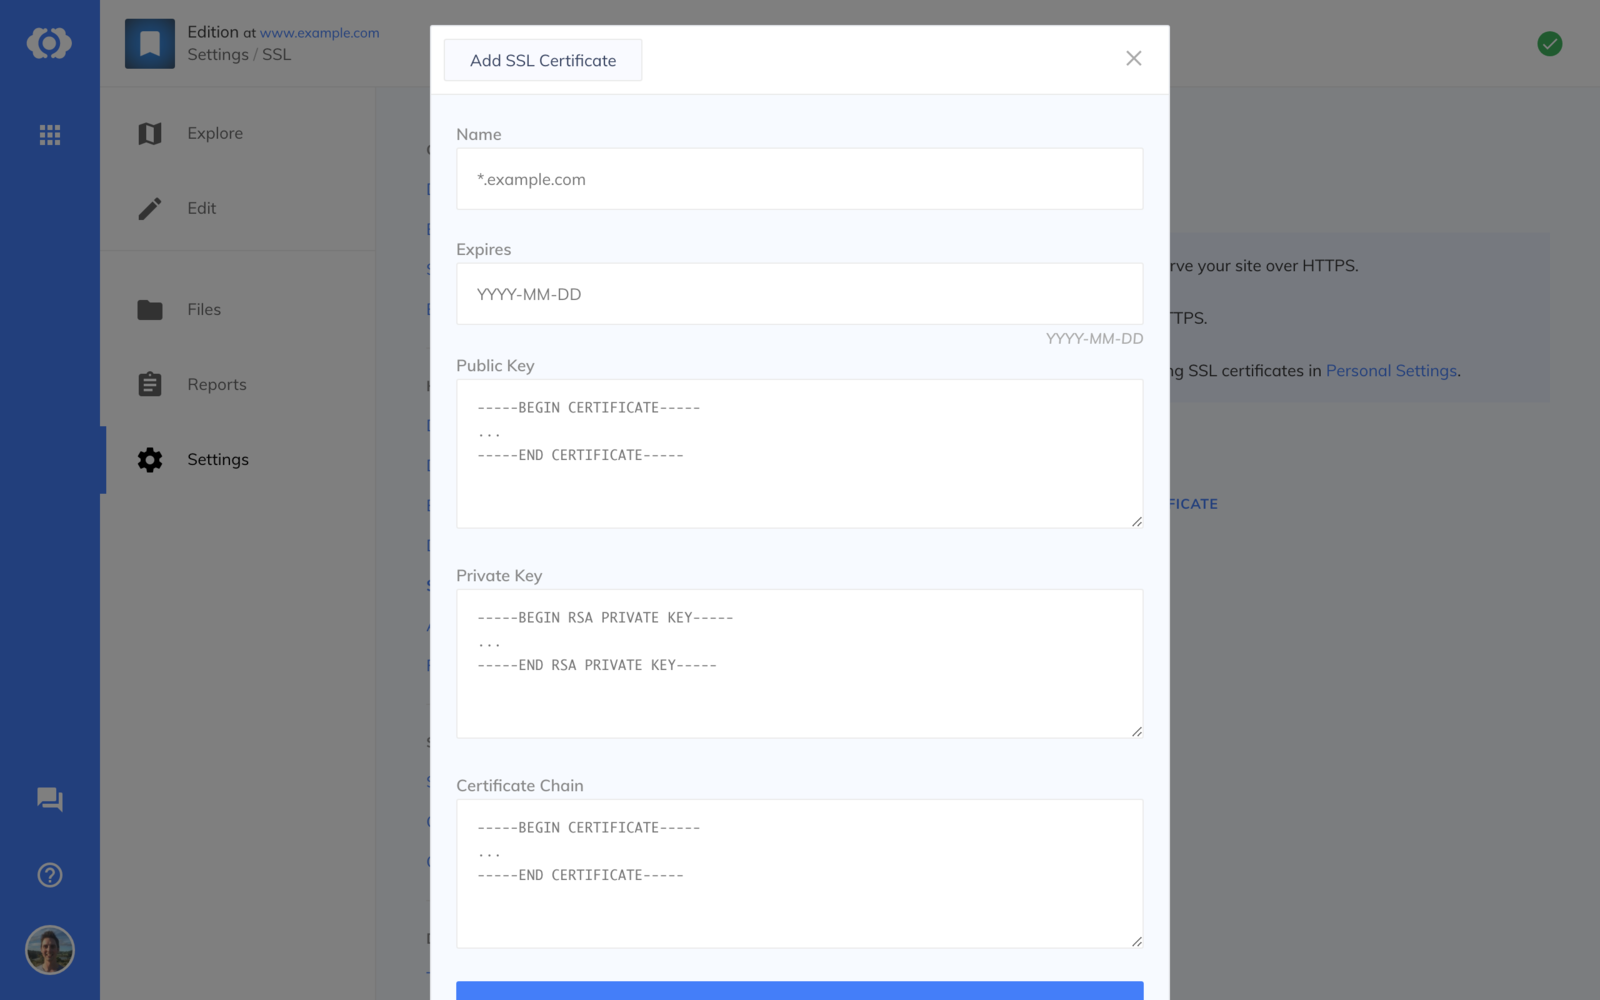
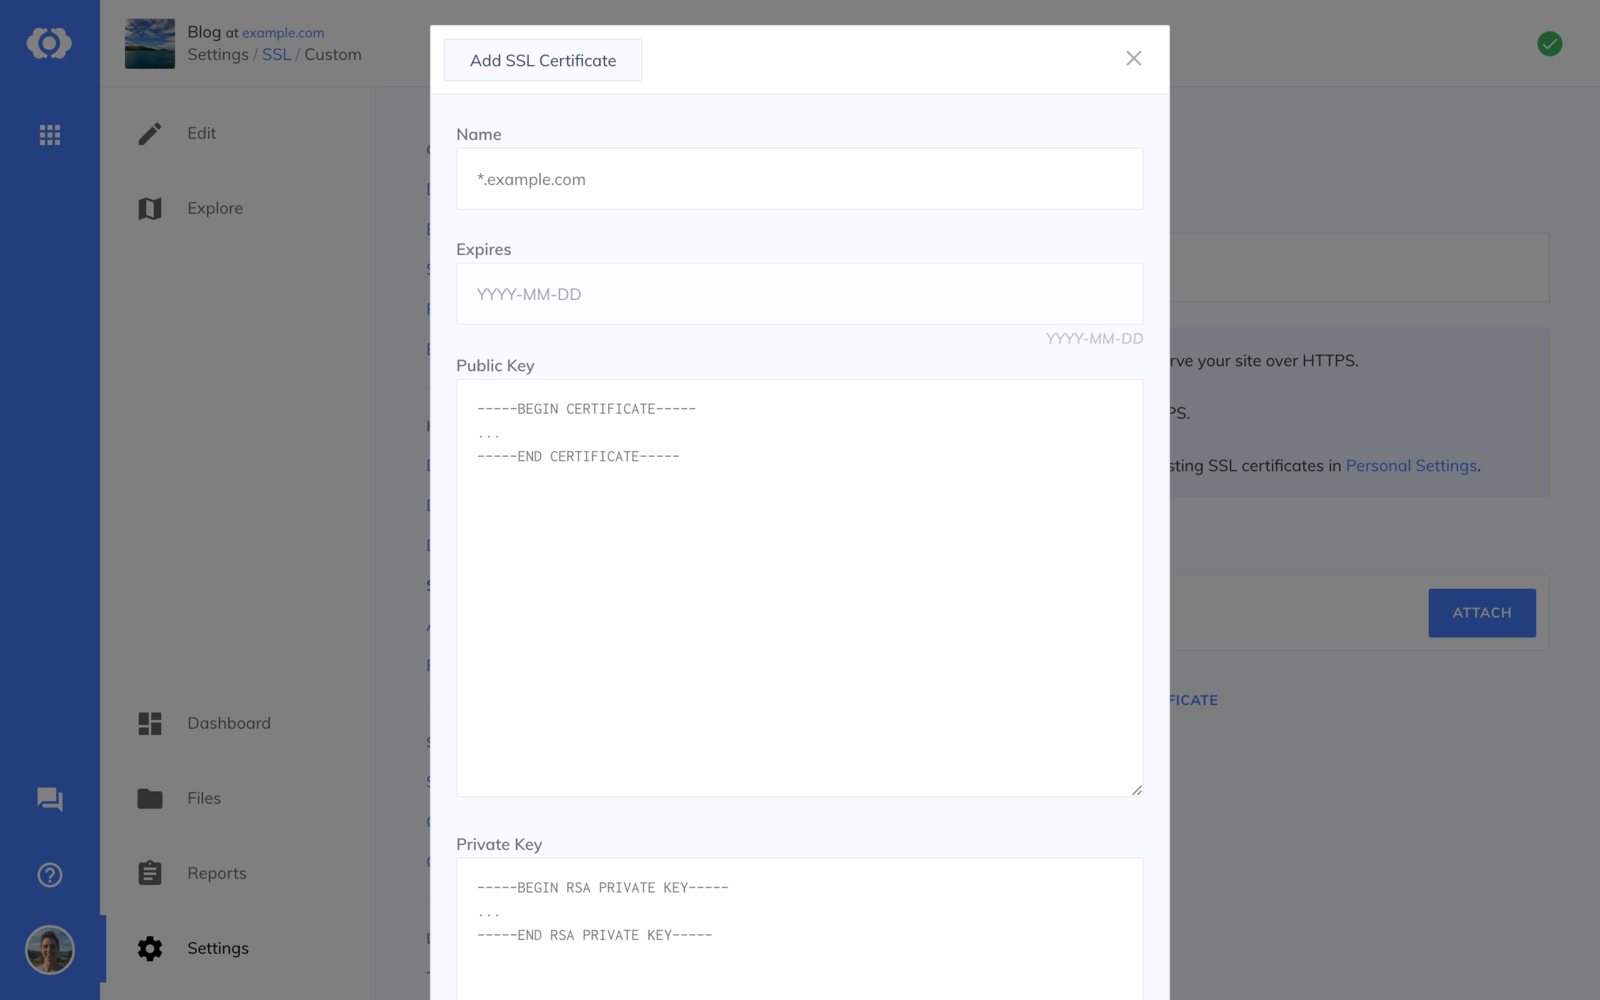
Update SSL docs

diff --git a/src/_layouts/doc.html b/src/_layouts/doc.html
@@ -32,7 +32,7 @@ layout: default
 				<h2>{{ page.title }}</h2>
 
 				<div class="toc">{% include toc.html html=content h_max=3 %}</div>
-				
+
 				{% assign requirements = "" %}
 
 				{% if page.requirements.build == 'Jekyll' %}
@@ -58,7 +58,7 @@ layout: default
 				{% endif %}
 
 				{% if requirements != "" %}
-					<blockquote class="explainer">Available {{ requirements }}.</blockquote>
+					<blockquote class="explainer"><p>Available {{ requirements }}.</p></blockquote>
 				{% endif %}
 
 				<div>{{ content }}</div>

diff --git a/src/_sass/_docs.scss b/src/_sass/_docs.scss
@@ -46,7 +46,7 @@ article.content h3 {
 		line-height: 1.8em;
 		a {
 			font-weight: bold;
-			&:before {    
+			&:before {
 				content: "┠";
 				display: inline-block;
 				margin-right: 5px;
@@ -64,4 +64,8 @@ article.content h3 {
 			}
 		}
 	}
+}
+
+.toc:empty + .explainer {
+	margin-top: 20px;
 }

diff --git a/src/_docs/ssl/letsencrypt.md b/src/_docs/ssl/letsencrypt.md
@@ -1,126 +1,33 @@
 ---
 title: Let's Encrypt
 category: SSL
-order: 2
+order: 1
 requirements:
   build: Any
   plan: Free
   hosting: CloudCannon
 ---
 
-[Let’s Encrypt](https://letsencrypt.org/) is a new Certificate Authority: It’s free, automated, and open. This document will detail the steps to generating a free SSL Certificate for use on CloudCannon. [Let’s Encrypt](https://letsencrypt.org/) has many clients, for this example [certbot](https://certbot.eff.org/about/) will be used.
+[Let's Encrypt](https://letsencrypt.org/) is a fresh kind of Certificate Authority, it's free, automated and open.
 
-> These notes are for installation on a Mac / *nix system and will not work on a standard Windows system. Sorry.
-{: .explainer}
-{: .warning}
+CloudCannon automatically generates Let's Encrypt SSL certificates for your sites and serves them over HTTPS. These certificates are automatically renewed before they expire.
 
+![SSL details](/images/ssl/details.png){: srcset="/images/ssl/details.png 800w, /images/ssl/details@2x.png 1600w"}{: .screenshot}
 
-### Installing certbot
+### Toggling HTTPS
 
-> If you have previously installed an older version of [certbot](https://certbot.eff.org/about/) or the letsencryptclient, run `rm -rf ~/.local/share/letsencrypt` to clear conflicting data.
-{: .explainer}
+To toggle autogenerating Let's Encrypt SSL certificates on your site:
 
-To install certbot on your local system, enter the following commands in your terminal.
+1. Go to *Site Settings* / *SSL* / *Settings*
+2. Toggle the *Autogenerate SSL Certificate* option
+3. Click **Update SSL**
 
-~~~bash
-cd /tmp
-git clone https://github.com/certbot/certbot.git
-cd certbot
-./certbot-auto --no-self-upgrade --debug renew --dry-run
-~~~
+![SSL Settings](/images/ssl/settings.png){: srcset="/images/ssl/settings.png 800w, /images/ssl/settings@2x.png 1600w"}{: .screenshot}
 
+### Redirecting HTTP to HTTPS
 
-### Running certbot
+To redirect all HTTP traffic to HTTPS:
 
-Running [certbot](https://certbot.eff.org/about/) will generate SSL Certificates for the domains we specify.
-
-~~~bash
-./certbot-auto --no-self-upgrade --debug certonly --manual
-~~~
-
-![Choosing the domain name](/images/ssl/letsencrypt/domain.png){: srcset="/images/ssl/letsencrypt/domain.png 800w, /images/ssl/letsencrypt/domain@2x.png 1600w"}{: .screenshot}
-
-Once the domain has been specified we must verify that we have access to that domain. Below is example output shown after the prompt:
-
-~~~
-Make sure your web server displays the following content at
-http://letsencrypt.cloudcannon.com/.well-known/acme-challenge/34sS6lKqRtmEH6nccSVNF8ifykpAAueVhHz0yvheY0o before continuing:
-
-34sS6lKqRtmEH6nccSVNF8ifykpAAueVhHz0yvheY0o.3-40nFYEAf5ItpgZuuISWUhg4fNm-vVW3T0RXmdzNkU
-
-If you don't have HTTP server configured, you can run the following
-command on the target server (as root):
-
-mkdir -p /tmp/certbot/public_html/.well-known/acme-challenge
-cd /tmp/certbot/public_html
-printf "%s" 34sS6lKqRtmEH6nccSVNF8ifykpAAueVhHz0yvheY0o.3-40nFYEAf5ItpgZuuISWUhg4fNm-vVW3T0RXmdzNkU > .well-known/acme-challenge/34sS6lKqRtmEH6nccSVNF8ifykpAAueVhHz0yvheY0o
-# run only once per server:
-$(command -v python2 || command -v python2.7 || command -v python2.6) -c \
-"import BaseHTTPServer, SimpleHTTPServer; \
-s = BaseHTTPServer.HTTPServer(('', 80), SimpleHTTPServer.SimpleHTTPRequestHandler); \
-s.serve_forever()"
-Press ENTER to continue
-~~~
-
-Before pressing ENTER, you must add a `letsencrypt.txt` file to your site with the following contents. Make sure you add your unique values from the terminal output:
-
-~~~markdown
----
-layout: null
-permalink: /.well-known/acme-challenge/34sS6lKqRtmEH6nccSVNF8ifykpAAueVhHz0yvheY0o/index.html
----
-34sS6lKqRtmEH6nccSVNF8ifykpAAueVhHz0yvheY0o.3-40nFYEAf5ItpgZuuISWUhg4fNm-vVW3T0RXmdzNkU
-~~~
-
-Save the file and wait for the site to compile and update. Test the URL in a new browser window to ensure the URL returns **only** the required key string.
-
-ie: visit http://DOMAIN_NAME/.well-known/acme-challenge/34sS6lKqRtmEH6nccSVNF8ifykpAAueVhHz0yvheY0o/index.html
-
-Once you have confirmed that the correct output is returned, return to your terminal console and press ENTER.
-
-If everything went smoothly, you should see output similar to this:
-
-~~~
-IMPORTANT NOTES:
- - Congratulations! Your certificate and chain have been saved at
-   /etc/letsencrypt/live/letsencrypt.cloudcannon.com/fullchain.pem.
-   Your cert will expire on 2016-09-06. To obtain a new or tweaked
-   version of this certificate in the future, simply run certbot-auto
-   again. To non-interactively renew *all* of your ceriticates, run
-   "certbot-auto renew"
- - If you like Certbot, please consider supporting our work by:
-
-   Donating to ISRG / Let's Encrypt:   https://letsencrypt.org/donate
-   Donating to EFF:                    https://eff.org/donate-le
-~~~
-
-> If you received errors, please ensure the output of your URL (above) is correct, before running the certbot command again and updating the `letsencrypt.txt` file again with the new values.
-{: .explainer}
-
-This completes the use of [certbot](https://certbot.eff.org/about/) with a free cert for our domain. All parts of the cert are available at `/etc/letsencrypt/live/DOMAIN_NAME/`.
-
-
-### Converting the Private Key to RSA
-
-Before uploading to CloudCannon we must convert the private key into the correct format. This is done using the following command:
-
-~~~bash
-sudo openssl rsa -inform pem -in /etc/letsencrypt/live/DOMAIN_NAME/privkey.pem -outform pem
-~~~
-
-This command will output the key in RSA format, use this output when installing the cert onto CloudCannon.
-
-
-### Installing onto CloudCannon
-
-To install the newly generated SSL Certificate to CloudCannon:
-
-- Follow the instructions for [Adding a new SSL Certificate](/ssl/custom-certificate/)
-- Copy `/etc/letsencrypt/live/DOMAIN_NAME/cert.pem` to the public key field
-- Copy the RSA format of the private key to the private key field
-- Copy `/etc/letsencrypt/live/DOMAIN_NAME/chain.pem` to chain
-- Save the added information
-- Click the "Attach" button to attach the certificate to the site
-
-> It can take a few minutes before the redirect to HTTPS takes effect.
-{: .explainer}
+1. Go to *Site Settings* / *SSL* / *Settings*
+2. Enable the *Redirect all HTTP traffic to HTTPS* option
+3. Click **Update SSL**

diff --git a/src/_docs/ssl/custom-certificate.md b/src/_docs/ssl/custom-certificate.md
@@ -1,21 +1,18 @@
 ---
 title: Custom Certificate
 category: SSL
-order: 1
+order: 2
 requirements:
   build: Any
   plan: Free
   hosting: CloudCannon
 ---
 
-> CloudCannon SSL support is in private beta. [Contact support](mailto:support@cloudcannon.com) to join.
-{: .explainer}
-
 ### Adding a new SSL certificate
 
-To add a new SSL certificate:
+To add a new custom SSL certificate:
 
-1. Go to *Site Settings* / *SSL*
+1. Go to *Site Settings* / *SSL* / *Custom*
 2. Click the **Add SSL Certificate** button
 3. Fill in all of the fields available and submit the form
 
@@ -26,24 +23,21 @@ Once added, the SSL certificate needs to be attached to the site.
 
 ![Adding a new SSL certificate](/images/ssl/adding.png){: srcset="/images/ssl/adding.png 800w, /images/ssl/adding@2x.png 1600w"}{: .screenshot}
 
-
 ### Attaching an SSL certificate to a site
 
-To add SSL to a site:
+To add an existing custom SSL certificate to a site:
 
-1. Go to *Site Settings* / *SSL*
+1. Go to *Site Settings* / *SSL* / *Custom*
 2. Click **Attach** on any SSL certificate
 
 ![Attaching an SSL certificate](/images/ssl/attaching.png){: srcset="/images/ssl/attaching.png 800w, /images/ssl/attaching@2x.png 1600w"}{: .screenshot}
-
 
 ### Redirecting HTTP to HTTPS
 
 To redirect all HTTP traffic to HTTPS:
 
-1. Ensure an SSL certificate is attached
-2. Go to *Site Settings* / *Hosting* / *Details*
-2. Enable the **Redirect all HTTP traffic to HTTPS** option
-3. Update the site.
+1. Go to *Site Settings* / *SSL* / *Settings*
+2. Enable the *Redirect all HTTP traffic to HTTPS* option
+3. Click **Update SSL**
 
-![Redirecting HTTP to HTTPS](/images/ssl/redirecting.png){: srcset="/images/ssl/redirecting.png 800w, /images/ssl/redirecting@2x.png 1600w"}{: .screenshot}
+![SSL Settings](/images/ssl/settings.png){: srcset="/images/ssl/settings.png 800w, /images/ssl/settings@2x.png 1600w"}{: .screenshot}
